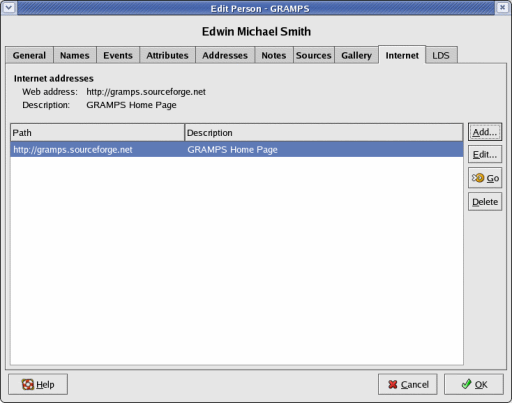
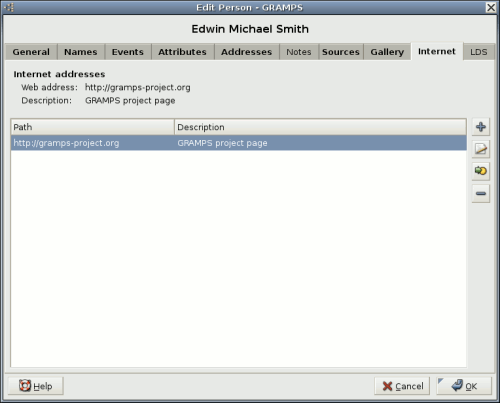
* src/EditPerson.py (on_help_clicked): Call appropriate manual section. * doc/gramps-manual/C/usage.xml: Update. * doc/gramps-manual/C/figures/edit-person-*.png: Update. * configure.in: Bump up version, to distinguish from released 1.1.99.
git-svn-id: svn+ssh://svn.code.sf.net/p/gramps/code/branches/gramps20@4454 4ae1f11a-8b86-4847-b8af-ab372f36d1fd

Changed region(s): [[0.0, 0.0, 1.0, 1.0]]

diff --git a/gramps2/src/EditPerson.py b/gramps2/src/EditPerson.py
@@ -640,7 +640,7 @@ class EditPerson:
 
     def on_help_clicked(self,obj):
         """Display the relevant portion of GRAMPS manual"""
-        gnome.help_display('gramps-manual','gramps-edit-complete')
+        gnome.help_display('gramps-manual','adv-pers')
 
     def build_columns(self,tree,list):
         cnum = 0
